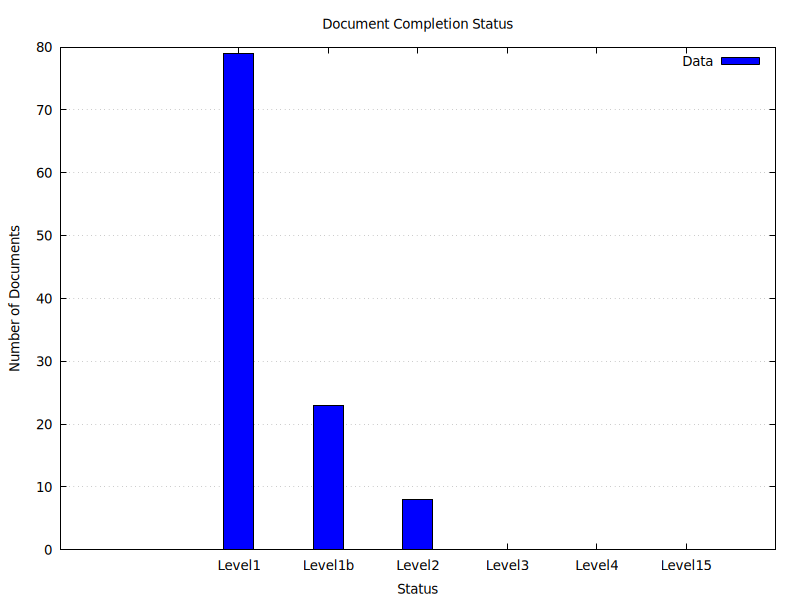
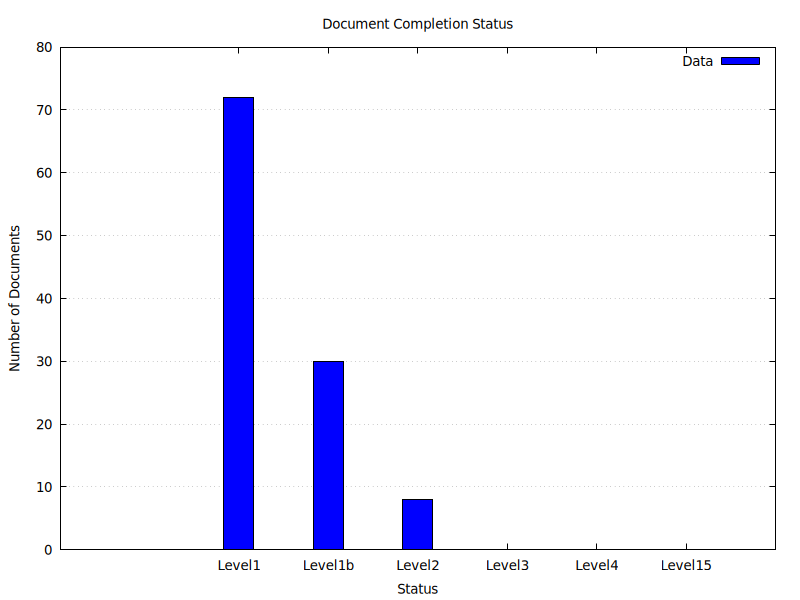
iteration to the main page, minor doc cleanup

Changed region(s): [[0.375, 0.6, 0.4375, 0.69], [0.2812, 0.09, 0.3438, 0.18]]

diff --git a/docs/docs/GeneratedFileStatus.md b/docs/docs/GeneratedFileStatus.md
@@ -7,6 +7,7 @@ status: Level5
 | File | Word Count |
 |------|------------|
 | [../docs/Applications.FlightRecorder.MemoryLeak.document.md](../docs/Applications.FlightRecorder.MemoryLeak.document.md)  | 211|
+| [../docs/Applications.FlightRecorder.PriorToCrash.document.md](../docs/Applications.FlightRecorder.PriorToCrash.document.md)  | 252|
 | [../docs/Architecture.Action.Explanation.document.md](../docs/Architecture.Action.Explanation.document.md)  | 124|
 | [../docs/Architecture.Components.FiltersAndRouters.document.md](../docs/Architecture.Components.FiltersAndRouters.document.md)  | 44|
 | [../docs/Architecture.Components.Observer.InProcess.document.md](../docs/Architecture.Components.Observer.InProcess.document.md)  | 53|
@@ -16,13 +17,19 @@ status: Level5
 | [../docs/Architecture.FlightRecorder.Overview.document.md](../docs/Architecture.FlightRecorder.Overview.document.md)  | 811|
 | [../docs/Architecture.FlightRecorder.ShortHorizons.document.md](../docs/Architecture.FlightRecorder.ShortHorizons.document.md)  | 588|
 | [../docs/Architecture.FlightRecorder.TraceHorizons.document.md](../docs/Architecture.FlightRecorder.TraceHorizons.document.md)  | 365|
-| [../docs/Architecture.KeyConstructs.Overview.document.md](../docs/Architecture.KeyConstructs.Overview.document.md)  | 439|
+| [../docs/Architecture.KeyConstructs.Overview.document.md](../docs/Architecture.KeyConstructs.Overview.document.md)  | 440|
 | [../docs/Architecture.Overview.document.md](../docs/Architecture.Overview.document.md)  | 210|
+| [../docs/Demos.1.DropChattyLog.md](../docs/Demos.1.DropChattyLog.md)  | 1103|
+| [../docs/Demos.2_DynamicProbe.md](../docs/Demos.2_DynamicProbe.md)  | 277|
+| [../docs/Demos.4.AddTelemetryDemo.md](../docs/Demos.4.AddTelemetryDemo.md)  | 1078|
+| [../docs/Demos.HighLevel.Overview.md](../docs/Demos.HighLevel.Overview.md)  | 1187|
 | [../docs/PositionPaper.DeliveryGuarantees.document.md](../docs/PositionPaper.DeliveryGuarantees.document.md)  | 163|
 | [../docs/PositionPaper.DynamicTelemetryTenets.document.md](../docs/PositionPaper.DynamicTelemetryTenets.document.md)  | 67|
 | [../docs/PositionPaper.FileAndStreaming.document.md](../docs/PositionPaper.FileAndStreaming.document.md)  | 227|
+| [../docs/PositionPaper.ObserverEffect.document.md](../docs/PositionPaper.ObserverEffect.document.md)  | 728|
 | [../docs/PositionPaper.SharingDataAmongStakeHoldersIsHard.document.md](../docs/PositionPaper.SharingDataAmongStakeHoldersIsHard.document.md)  | 171|
 | [../docs/PositionPaper.TelemetryUmbilical.document.md](../docs/PositionPaper.TelemetryUmbilical.document.md)  | 95|
+| [../docs/Rude_Q_and_A.md](../docs/Rude_Q_and_A.md)  | 748|
 | [../docs/Scenarios.Overview.CostReduction.document.md](../docs/Scenarios.Overview.CostReduction.document.md)  | 1368|
 | [../docs/Scenarios.Overview.DeepDiagnostics.document.md](../docs/Scenarios.Overview.DeepDiagnostics.document.md)  | 577|
 | [../docs/Scenarios.Overview.document.md](../docs/Scenarios.Overview.document.md)  | 180|
@@ -35,7 +42,6 @@ status: Level5
 
 | File | Word Count |
 |------|------------|
-| [../docs/Applications.FlightRecorder.PriorToCrash.document.md](../docs/Applications.FlightRecorder.PriorToCrash.document.md)  | 252|
 | [../docs/Applications.InterestingApplications.document.md](../docs/Applications.InterestingApplications.document.md)  | 10|
 | [../docs/Applications.Overview.InterestingApplications.document.md](../docs/Applications.Overview.InterestingApplications.document.md)  | 7|
 | [../docs/Architecture.Action.ConfigCollection.document.md](../docs/Architecture.Action.ConfigCollection.document.md)  | 10|
@@ -69,10 +75,6 @@ status: Level5
 | [../docs/Architecture.Probe.user_events.document.md](../docs/Architecture.Probe.user_events.document.md)  | 13|
 | [../docs/Definitions.document.md](../docs/Definitions.document.md)  | 161|
 | [../docs/Demos.0.DynamicID.md](../docs/Demos.0.DynamicID.md)  | 722|
-| [../docs/Demos.1.DropChattyLog.md](../docs/Demos.1.DropChattyLog.md)  | 1103|
-| [../docs/Demos.2_DynamicProbe.md](../docs/Demos.2_DynamicProbe.md)  | 277|
-| [../docs/Demos.4.AddTelemetryDemo.md](../docs/Demos.4.AddTelemetryDemo.md)  | 1078|
-| [../docs/Demos.HighLevel.Overview.md](../docs/Demos.HighLevel.Overview.md)  | 1187|
 | [../docs/Persona_DataAnalysis.document.md](../docs/Persona_DataAnalysis.document.md)  | 122|
 | [../docs/Persona_Developer.document.md](../docs/Persona_Developer.document.md)  | 183|
 | [../docs/Persona_DevOps.document.md](../docs/Persona_DevOps.document.md)  | 110|
@@ -91,7 +93,6 @@ status: Level5
 | [../docs/PositionPaper.GuideToLogVerbosity.document.md](../docs/PositionPaper.GuideToLogVerbosity.document.md)  | 33|
 | [../docs/PositionPaper.InternalAuditsOfProductionCode.document.md](../docs/PositionPaper.InternalAuditsOfProductionCode.document.md)  | 7|
 | [../docs/PositionPaper.LeafLevelLogging.document.md](../docs/PositionPaper.LeafLevelLogging.document.md)  | 22|
-| [../docs/PositionPaper.ObserverEffect.document.md](../docs/PositionPaper.ObserverEffect.document.md)  | 728|
 | [../docs/PositionPaper.PositionPapers.Overview.document.md](../docs/PositionPaper.PositionPapers.Overview.document.md)  | 10|
 | [../docs/PositionPaper.ProbeRiskLevels.document.md](../docs/PositionPaper.ProbeRiskLevels.document.md)  | 55|
 | [../docs/PositionPaper.ProbeToHeader.document.md](../docs/PositionPaper.ProbeToHeader.document.md)  | 10|
@@ -105,7 +106,6 @@ status: Level5
 | [../docs/PositionPaper.TriggeredMemoryDump.document.md](../docs/PositionPaper.TriggeredMemoryDump.document.md)  | 10|
 | [../docs/PositionPaper.WhereToSuppressInProc.document.md](../docs/PositionPaper.WhereToSuppressInProc.document.md)  | 10|
 | [../docs/ReviewProcess.document.md](../docs/ReviewProcess.document.md)  | 98|
-| [../docs/Rude_Q_and_A.md](../docs/Rude_Q_and_A.md)  | 748|
 | [../docs/Scenarios.ChangingEnvironments.document.md](../docs/Scenarios.ChangingEnvironments.document.md)  | 23|
 | [../docs/Scenarios.ConvertLogsToMetrics.document.md](../docs/Scenarios.ConvertLogsToMetrics.document.md)  | 10|
 | [../docs/Scenarios.EventAggregation.document.md](../docs/Scenarios.EventAggregation.document.md)  | 37|

diff --git a/docs/docs/index.md b/docs/docs/index.md
@@ -37,44 +37,40 @@ one of the five scenarios themes found below.
 
 <div class="grid cards" markdown>
 
-- :material-speedometer:
-  [**Performance and Diagnostics**](./Scenarios.Overview.DeepDiagnostics.document.md)
+-   :material-speedometer: [**Performance and Diagnostics**](./Scenarios.Overview.DeepDiagnostics.document.md)
 
-  Disable diagnostic telemetry when systems are stable; enable it when they are
-  not. Quickly trigger memory dumps or collect CPU samples during production
-  issues. Deploy observers to monitor telemetry and gather extra diagnostic
-  data, only when needed.
+    Disable diagnostic telemetry when systems are stable; enable it when
+    they are not. Quickly trigger memory dumps or collect CPU samples
+    during production issues. Deploy observers to monitor telemetry and
+    gather extra diagnostic data, only when needed.
 
-  ![type:video](../orig_media/DynamicTelemetry_DiagnosticVideo.mp4)
+    ![type:video](../orig_media/DynamicTelemetry_DiagnosticVideo.mp4)
 
-- :shield:
-  [**Privacy and Security**](./Scenarios.Overview.RedactingSecrets.document.md)
+-   :shield: [**Privacy and Security**](./Scenarios.Overview.RedactingSecrets.document.md)
 
-  Detect and immediately suppress sensitive (or expensive) fields within Logs,
-  should they inadvertently contain sensitive information such as PATs, IP
-  addresses, user information, or crypto keys. Remove these, at their source,
-  instantly - without rebuild or redeploy.
+    Detect and immediately suppress sensitive (or expensive) fields
+    within Logs, should they inadvertently contain sensitive information
+    such as PATs, IP addresses, user information, or crypto keys. Remove
+    these, at their source, instantly - without rebuild or redeploy.
 
-- :fontawesome-solid-dog:
-  [**Reliability**](./Scenarios.Overview.Reliability.document.md)
+-   :fontawesome-solid-dog: [**Reliability**](./Scenarios.Overview.Reliability.document.md)
 
-  Test your services more effectively; make your Production code self diagnose.
-  Couple the self diagnostics with Actions that toggle up and down telemetry
-  volume, collect memory dumps, and CPU samples.
+    Test your services more effectively; make your Production code self
+    diagnose. Couple the self diagnostics with Actions that toggle up
+    and down telemetry volume, collect memory dumps, and CPU samples.
 
-- :material-view-dashboard:
-  [**Durability - Dashboards and Alerts**](./Scenarios.Overview.DurableDashboards.Alerts.document.md)
+-   :material-view-dashboard: [**Durability - Dashboards and Alerts**](./Scenarios.Overview.DurableDashboards.Alerts.document.md)
 
-  Develop flexible schemas in your logs, metrics, and traces that enhance the
-  durability of your dashboards and streamline communication between coworkers.
-  Enable AI to find problems on your behalf.
+    Develop flexible schemas in your logs, metrics, and traces that
+    enhance the durability of your dashboards and streamline
+    communication between coworkers. Enable AI to find problems on your
+    behalf.
 
-- :moneybag:
-  [**Cost Reduction**](./Scenarios.Overview.CostReduction.document.md)
+-  :moneybag: [**Cost Reduction**](./Scenarios.Overview.CostReduction.document.md)
 
-  Convert verbose logs into concise metrics, suppress large payloads, or drop
-  unnecessary logs.
+    Convert verbose logs into concise metrics, suppress large payloads,
+    or drop unnecessary logs.
 
-  ![type:video](../orig_media/DynamicTelemetry_CostSavings.mp4)
+    ![type:video](../orig_media/DynamicTelemetry_CostSavings.mp4)
 
 </div>

diff --git a/docs/docs/Architecture.KeyConstructs.Overview.document.md b/docs/docs/Architecture.KeyConstructs.Overview.document.md
@@ -67,6 +67,6 @@ memory dump or starting a CPU sample. This actor would be called an Action.
 By configuring a Filter to detect memory management logs, you can then direct
 those logs to a specialized Flight Recorder Action built for diagnosing memory
 leaks. This Flight Recorder can capture snapshots of heap usage or detailed
-allocation patterns whenever the filter’s trigger conditions are met, enabling
-quick identification of problematic regions within the application’s memory
+allocation patterns whenever the filter's trigger conditions are met, enabling
+quick identification of problematic regions within the application's memory
 footprint without continuously running resource-intensive diagnostics.

diff --git a/docs/docs/Architecture.FlightRecorder.Overview.document.md b/docs/docs/Architecture.FlightRecorder.Overview.document.md
@@ -5,7 +5,7 @@ status: ReviewLevel1b
 
 # Flight Recorder Overview
 
-![](../orig_media/FlightRecorders.banner.png/)
+![](../orig_media/FlightRecorders.banner.png)
 
 A Flight Recorder is an alternative and compliment to standard
 [Streaming](./PositionPaper.FileAndStreaming.document.md) Observability.

diff --git a/docs/docs/Applications.FlightRecorder.PriorToCrash.document.md b/docs/docs/Applications.FlightRecorder.PriorToCrash.document.md
@@ -1,6 +1,6 @@
 ---
 author: "Chris Gray"
-status: ReviewLevel1
+status: ReviewLevel1b
 ---
 
 # Interesting Application : FlightRecorder into Memory Dump

diff --git a/docs/docs/Demos.2_DynamicProbe.md b/docs/docs/Demos.2_DynamicProbe.md
@@ -1,6 +1,6 @@
 ---
 author: "Chris Gray"
-status: ReviewLevel1
+status: ReviewLevel1b
 ---
 
 # DynamicTelemetry : Demo 1, adding Telemetry dynamically

diff --git a/docs/docs/Demos.4.AddTelemetryDemo.md b/docs/docs/Demos.4.AddTelemetryDemo.md
@@ -1,6 +1,6 @@
 ---
 author: "Chris Gray"
-status: ReviewLevel1
+status: ReviewLevel1b
 ---
 
 # Diagnostic Demo: Dynamically Adding a Row of Telemetry

diff --git a/docs/docs/Demos.HighLevel.Overview.md b/docs/docs/Demos.HighLevel.Overview.md
@@ -1,6 +1,6 @@
 ---
 author: "Chris Gray"
-status: ReviewLevel1
+status: ReviewLevel1b
 ---
 
 # High Level Overview Demo, of Dynamic Telemetry

diff --git a/docs/docs/Demos.1.DropChattyLog.md b/docs/docs/Demos.1.DropChattyLog.md
@@ -1,6 +1,6 @@
 ---
 author: "Chris Gray"
-status: ReviewLevel1
+status: ReviewLevel1b
 description : Demo Showing DurableID
 ---
 

diff --git a/docs/docs/Rude_Q_and_A.md b/docs/docs/Rude_Q_and_A.md
@@ -1,6 +1,6 @@
 ---
 author: "Chris Gray"
-status: ReviewLevel1
+status: ReviewLevel1b
 ---
 
 # "Rude" Questions and Answers

diff --git a/docs/docs/PositionPaper.ObserverEffect.document.md b/docs/docs/PositionPaper.ObserverEffect.document.md
@@ -1,6 +1,6 @@
 ---
 author: "Chris Gray"
-status: ReviewLevel1
+status: ReviewLevel1b
 ---
 
 # The Observer Effect
